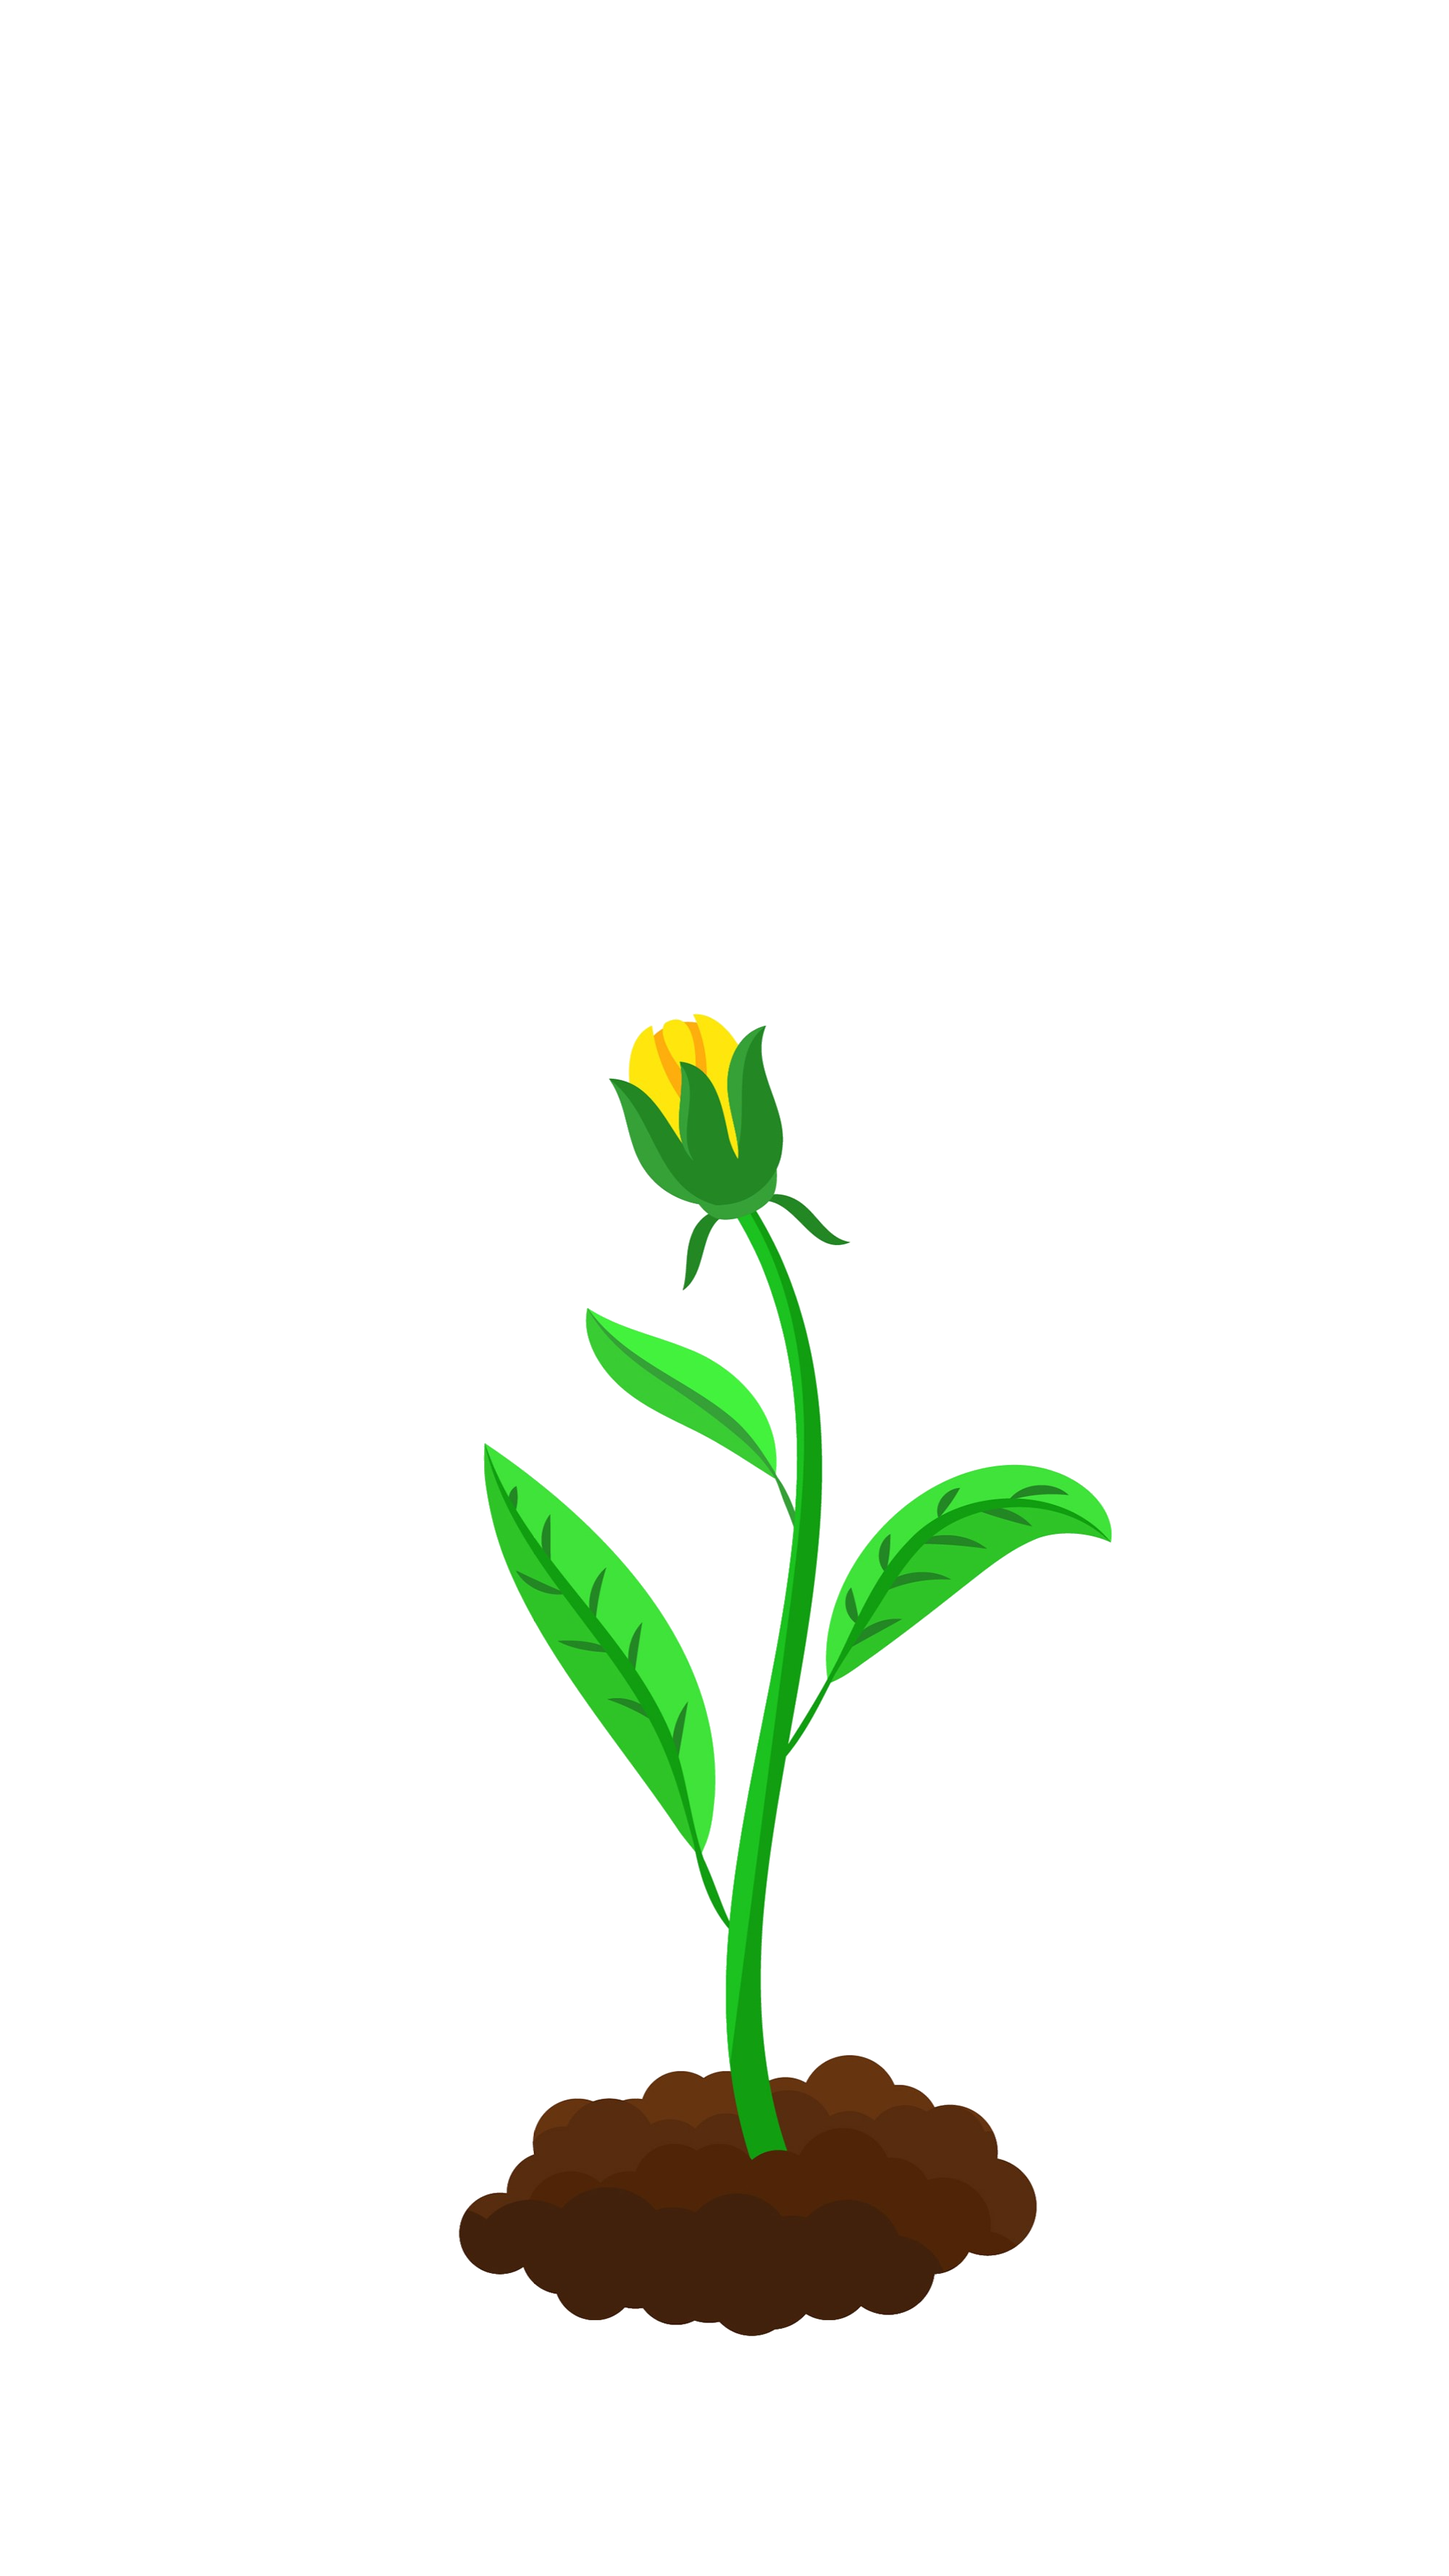
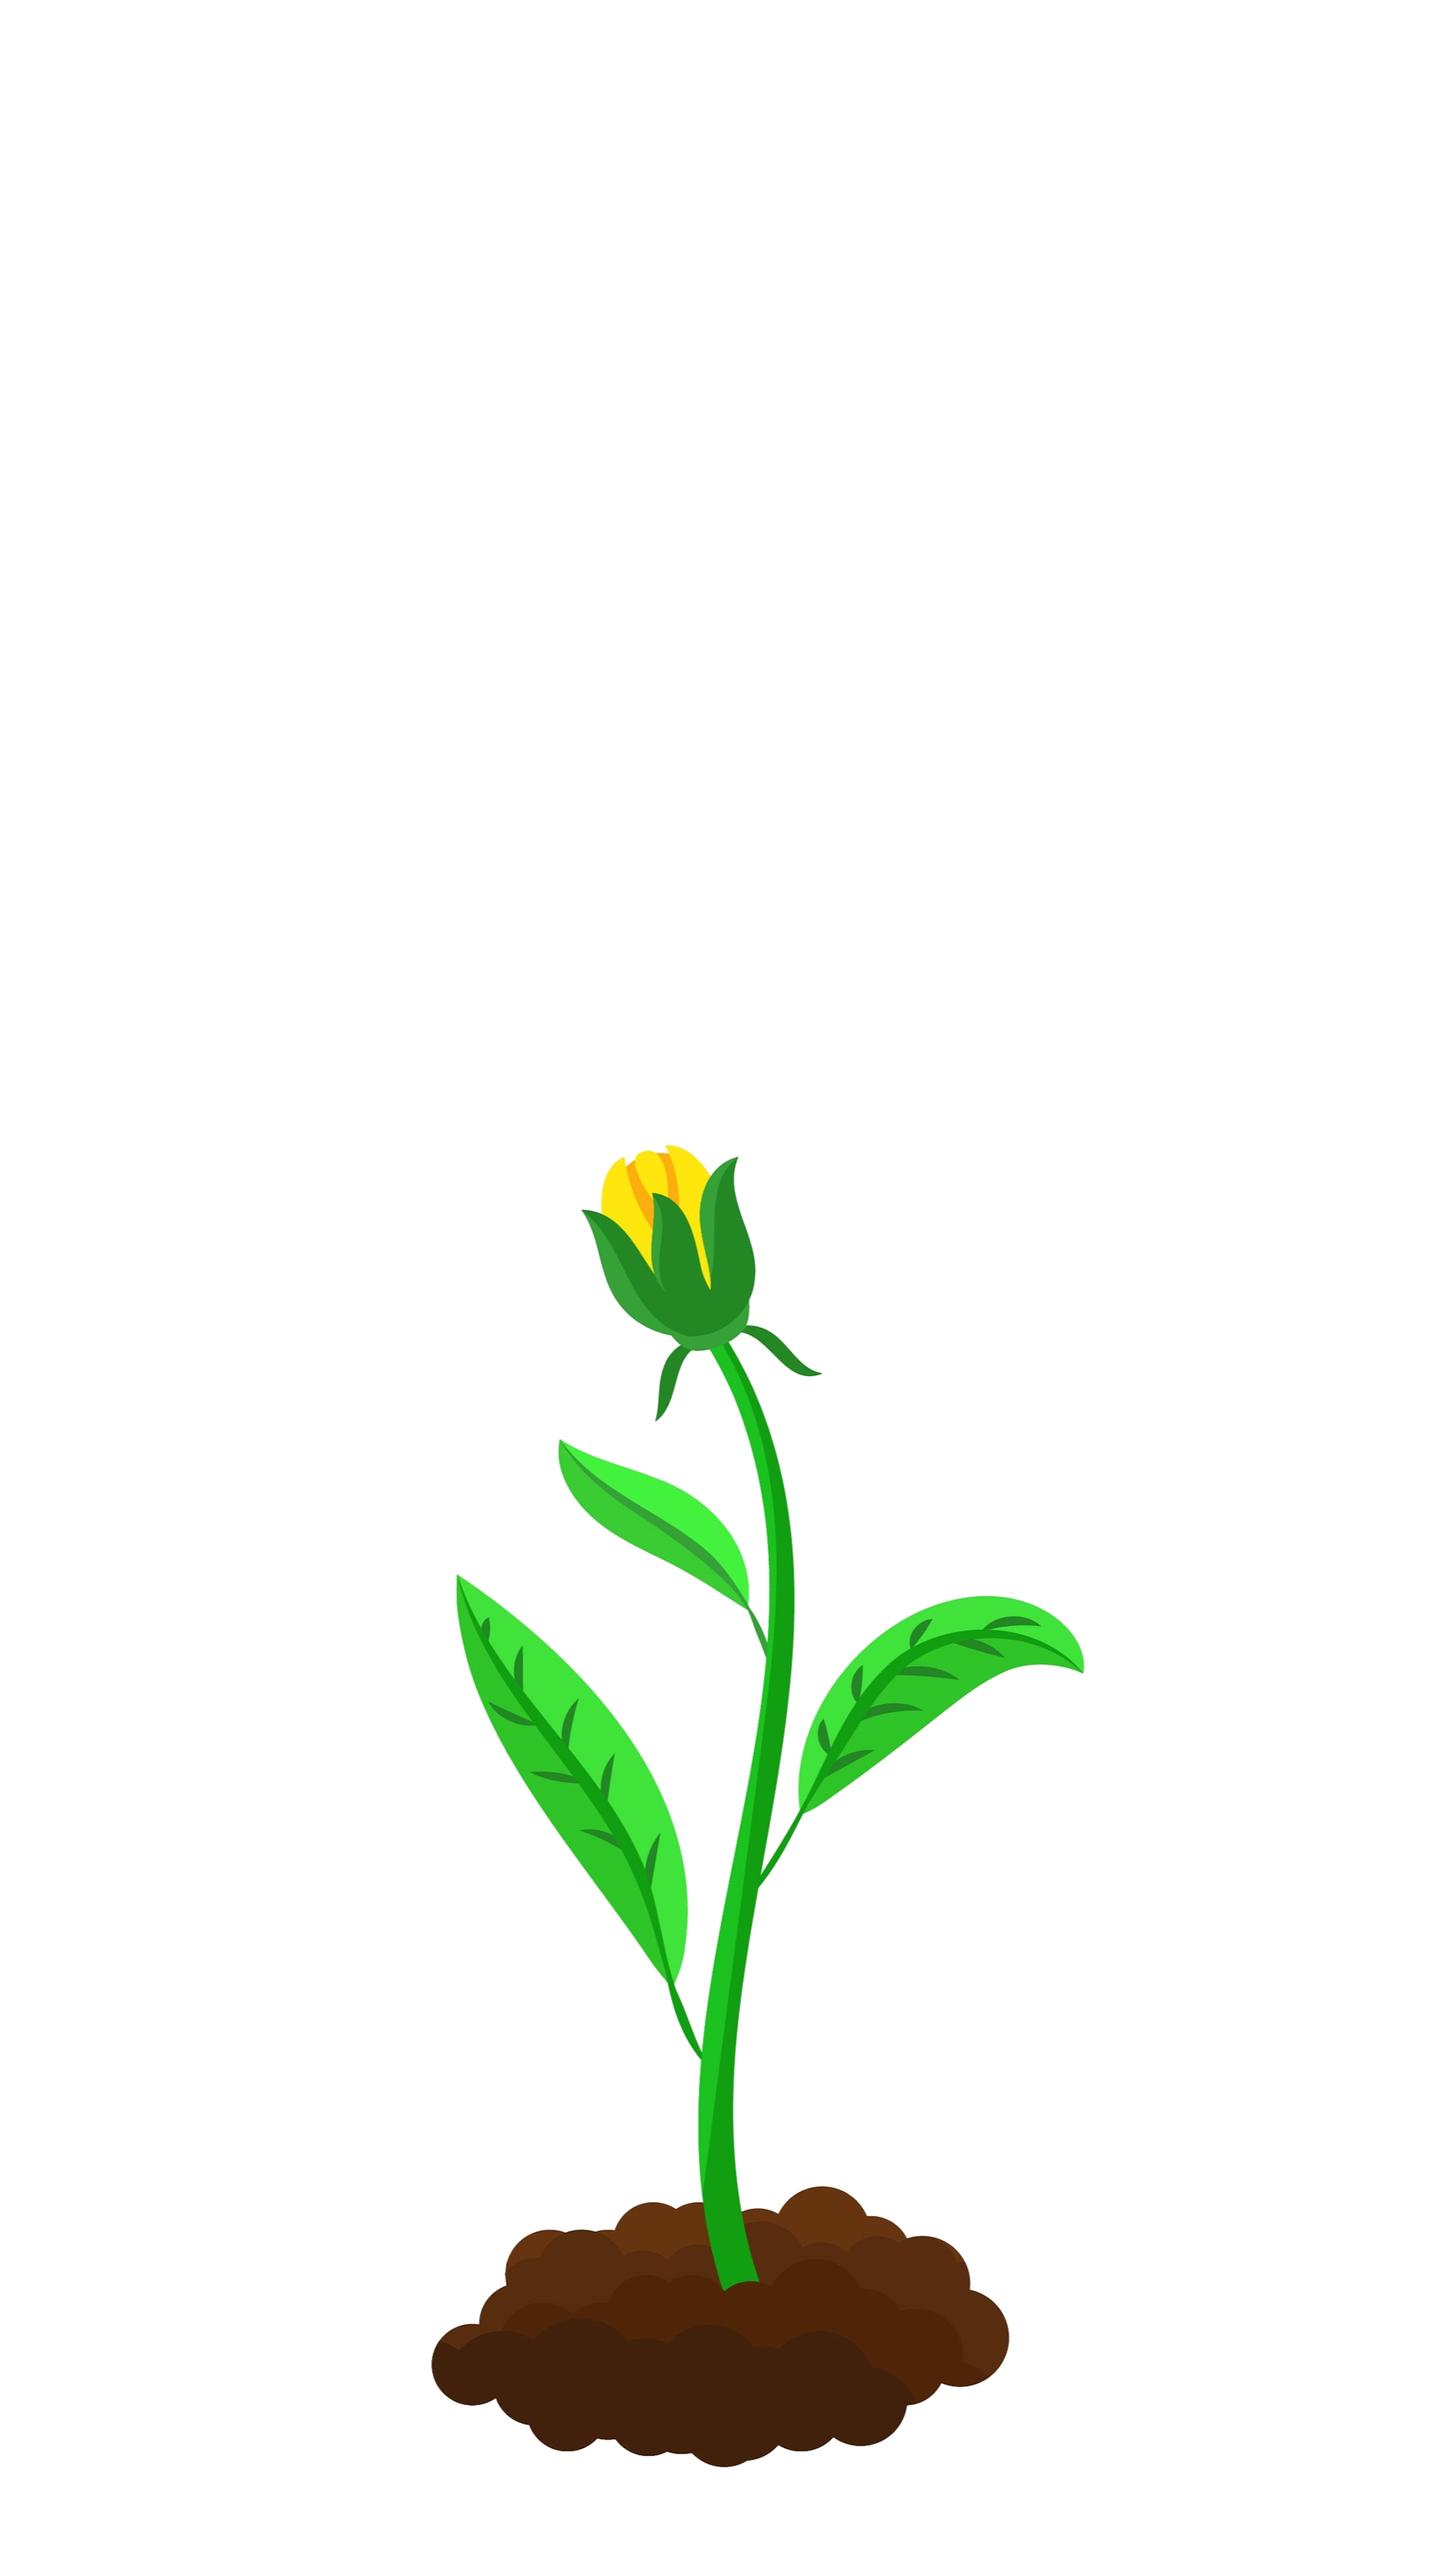
feat growing animation

Changed region(s): [[0.279, 0.3747, 0.775, 0.9679]]

diff --git a/lib/components/growingTree.dart b/lib/components/growingTree.dart
@@ -11,35 +11,26 @@ class GrowingTree extends StatefulWidget {
 
 class _GrowingTreeState extends State<GrowingTree>
     with SingleTickerProviderStateMixin {
-  final List<String> images = [
-    'assets/images/growing_1.png',
-    'assets/images/growing_2.png',
-    'assets/images/growing_3.png',
-    'assets/images/growing_4.png',
-    'assets/images/growing_5.png',
-    'assets/images/growing_6.png',
+  final List<ImageProvider> images = const[
+    AssetImage('assets/images/growing_1.png'),
+    AssetImage('assets/images/growing_2.png'),
+    AssetImage('assets/images/growing_3.png'),
+    AssetImage('assets/images/growing_4.png'),
+    AssetImage('assets/images/growing_5.png'),
+    AssetImage('assets/images/growing_6.png'),
   ];
   late AnimationController _controller;
-  late Animation<double> _animation;
   int _index = 0;
 
   @override
   void initState() {
     super.initState();
     _index = (widget.progress / 20).floor();
-    
+
     _controller = AnimationController(
-      duration: const Duration(milliseconds: 400),
+      duration: Duration(milliseconds: (_index * 300)),
       vsync: this,
-    );
-
-    _animation = Tween<double>(
-      begin: 0,
-      end: 1,
-    ).animate(_controller);
-
-    // _controller.forward();
-    // _controller.repeat();
+    )..forward();
   }
 
   @override
@@ -50,47 +41,15 @@ class _GrowingTreeState extends State<GrowingTree>
 
   @override
   Widget build(BuildContext context) {
-    return GestureDetector(
-      onTap: () {
-        setState(() {
-          // _index = (_index + 1) % images.length;
-        });
-      },
-      child: Stack(
-        children: [
-          Center(
-            child: Image.asset(
-              images[_index],
-              height: 300,
-            ),
-          ),
-          Center(
-            child: FadeTransition(
-              opacity: _animation,
-              child: IgnorePointer(
-                child: Image.asset(
-                  images[(_index + 1) % images.length],
-                  fit: BoxFit.cover,
-                  height: 300,
-                ),
-              ),
-            ),
-          ),
-        ],
-      ),
+    return AnimatedBuilder(
+      animation: _controller,
+      builder: (BuildContext context, Widget? child) {
+        return Image(
+          image: images[(_controller.value * _index).floor() % images.length],
+          height: 300,
+          fit: BoxFit.cover,
+        );
+      }
     );
-  //   return TweenAnimationBuilder<double>(
-  //     tween: Tween(begin: 0.0, end: progress),
-  //     duration: Duration(milliseconds: 500),
-  //     builder: (BuildContext context, double value, Widget? child) {
-  //       return ClipRect(
-  //         child: Align(
-  //           alignment: Alignment.bottomCenter,
-  //           heightFactor: value,
-  //           child: Image(image: AssetImage("assets/images/growingTree.jpg")),
-  //         ),
-  //       );
-  //     },
-  //   );
   }
 }
